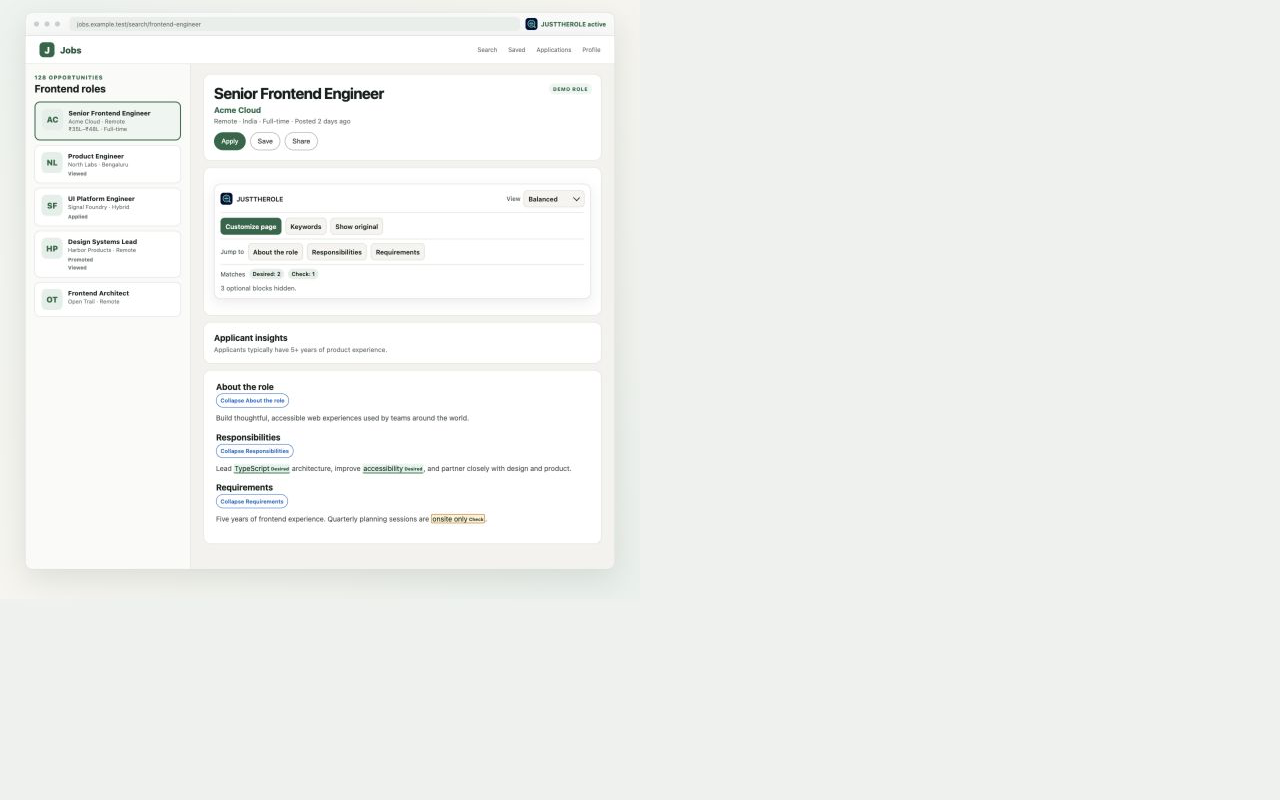
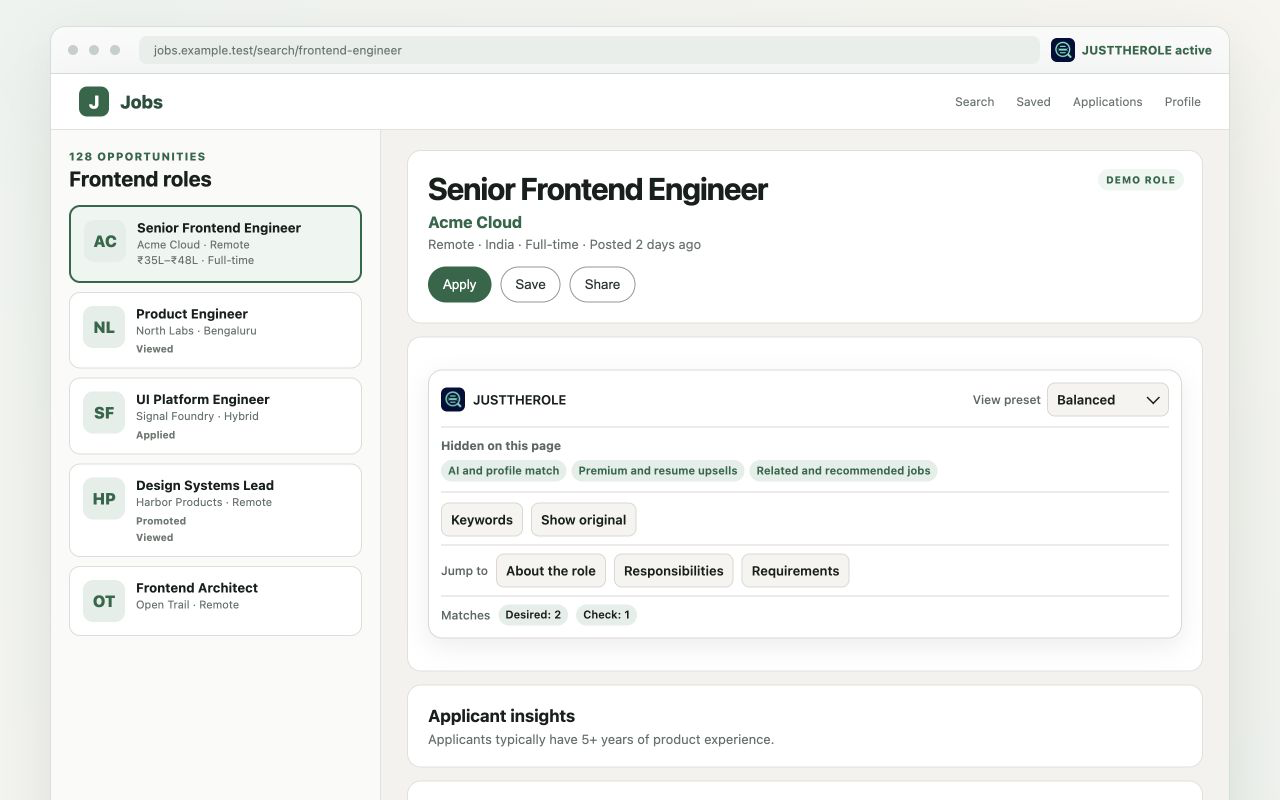
Update docs and assets to align with the new UI

diff --git a/src/content/index.ts b/src/content/index.ts
@@ -6,6 +6,7 @@ import {
   CATEGORY_KEYS,
   CATEGORY_LABELS,
   DEFAULT_SETTINGS,
+  EXPERIMENTAL_SEARCH_CLEANUP_AVAILABLE,
   SETTINGS_KEY,
   customizeModule,
   loadSettings,
@@ -253,6 +254,7 @@ function restoreSearchBeta(): void {
 }
 
 function applySearchBeta(): void {
+  if (!EXPERIMENTAL_SEARCH_CLEANUP_AVAILABLE) return;
   const searchList = firstMatch([
     ".jobs-search-results-list",
     "[data-view-name='jobs-search-results-list']",
@@ -467,7 +469,7 @@ function renderFocusBar(view: JobView | null): void {
       </div>
       ${nav ? `<nav class="nav" aria-label="Job description sections"><span class="label">Jump to</span>${nav}</nav>` : ""}
       ${countSummary ? `<div class="counts" aria-label="Keyword match counts"><span class="label">Matches</span>${countSummary}</div>` : ""}
-      ${(settings.searchBeta.collapseViewed && searchCounts.viewed) || (settings.searchBeta.collapseApplied && searchCounts.applied) ? `<div class="search"><span class="label">Search list</span>${settings.searchBeta.collapseViewed && searchCounts.viewed ? `<button type="button" data-action="show-viewed">${showViewed ? "Hide" : "Show"} viewed (${searchCounts.viewed})</button>` : ""}${settings.searchBeta.collapseApplied && searchCounts.applied ? `<button type="button" data-action="show-applied">${showApplied ? "Hide" : "Show"} applied (${searchCounts.applied})</button>` : ""}</div>` : ""}
+      ${EXPERIMENTAL_SEARCH_CLEANUP_AVAILABLE && ((settings.searchBeta.collapseViewed && searchCounts.viewed) || (settings.searchBeta.collapseApplied && searchCounts.applied)) ? `<div class="search"><span class="label">Search list</span>${settings.searchBeta.collapseViewed && searchCounts.viewed ? `<button type="button" data-action="show-viewed">${showViewed ? "Hide" : "Show"} viewed (${searchCounts.viewed})</button>` : ""}${settings.searchBeta.collapseApplied && searchCounts.applied ? `<button type="button" data-action="show-applied">${showApplied ? "Hide" : "Show"} applied (${searchCounts.applied})</button>` : ""}</div>` : ""}
       <p class="status" aria-live="polite">${temporaryOriginal ? "Original page shown for this job session." : normalStatus}</p>
     </section>
   `;

diff --git a/src/shared/settings.ts b/src/shared/settings.ts
@@ -1,6 +1,7 @@
 export const SETTINGS_KEY = "settingsV2" as const;
 export const LEGACY_SETTINGS_KEY = "settingsV1" as const;
 export const SETTINGS_SCHEMA_VERSION = 2 as const;
+export const EXPERIMENTAL_SEARCH_CLEANUP_AVAILABLE = false as const;
 
 export const CATEGORY_KEYS = [
   "aiMatch",
@@ -222,9 +223,15 @@ export function normalizeSettings(value: unknown): Settings {
       sectionControlsEnabled: bool(input.readingTools?.sectionControlsEnabled, true),
     },
     searchBeta: {
-      compactDensity: bool(input.searchBeta?.compactDensity, false),
-      collapseViewed: bool(input.searchBeta?.collapseViewed, false),
-      collapseApplied: bool(input.searchBeta?.collapseApplied, false),
+      compactDensity: EXPERIMENTAL_SEARCH_CLEANUP_AVAILABLE
+        ? bool(input.searchBeta?.compactDensity, false)
+        : false,
+      collapseViewed: EXPERIMENTAL_SEARCH_CLEANUP_AVAILABLE
+        ? bool(input.searchBeta?.collapseViewed, false)
+        : false,
+      collapseApplied: EXPERIMENTAL_SEARCH_CLEANUP_AVAILABLE
+        ? bool(input.searchBeta?.collapseApplied, false)
+        : false,
     },
     syncEnabled: bool(input.syncEnabled, false),
     uiPreferences: {

diff --git a/store-assets/job-showcase.html b/store-assets/job-showcase.html
@@ -64,12 +64,12 @@
     </style>
     <script>
       const query = new URLSearchParams(location.search);
-      const searchMode = query.get("view") === "search";
+      const customMode = query.get("view") === "custom";
       if (query.get("theme") === "dark") document.documentElement.dataset.previewTheme = "dark";
       const settings = {
         schemaVersion: 2,
         enabled: true,
-        activePreset: "balanced",
+        activePreset: customMode ? "custom" : "balanced",
         customBasePreset: "balanced",
         moduleRules: {
           aiMatch: true, applicantInsights: false, premiumUpsells: true,
@@ -84,7 +84,7 @@
           { id: "check-1", text: "onsite only", type: "dealbreaker", matchMode: "phrase", enabled: true }
         ],
         readingTools: { keywordsEnabled: true, sectionControlsEnabled: true },
-        searchBeta: { compactDensity: searchMode, collapseViewed: searchMode, collapseApplied: searchMode },
+        searchBeta: { compactDensity: false, collapseViewed: false, collapseApplied: false },
         syncEnabled: false,
         uiPreferences: { reducedMotion: "reduce", controlPlacement: "inline", focusBarVisible: true }
       };

diff --git a/src/privacy/privacy.html b/src/privacy/privacy.html
@@ -17,7 +17,7 @@
       <h1>JUSTTHEROLE privacy</h1>
       <p class="note"><strong>Short version:</strong> JUSTTHEROLE changes how supported job pages look and marks criteria you explicitly provide. It does not collect or transmit page content, account data, or browsing activity.</p>
       <h2>What is stored</h2>
-      <p>Your Focus Mode switch, preset, category choices, reading-tool preferences, search-beta choices, and keyword rules are stored locally by Chrome on your device. Keyword rules may reveal career preferences and should be treated as sensitive configuration.</p>
+      <p>Your Focus Mode switch, preset, category choices, reading-tool preferences, on-page widget preference, and keyword rules are stored locally by Chrome on your device. Keyword rules may reveal career preferences and should be treated as sensitive configuration.</p>
       <h2>Optional Chrome Sync</h2>
       <p>Sync is off by default. If you enable it, your complete extension configuration, including keyword rules, may be stored and synchronized through your Chrome account. If Sync is unavailable, JUSTTHEROLE keeps the local copy.</p>
       <h2>What is not collected</h2>

diff --git a/tests/settings.test.ts b/tests/settings.test.ts
@@ -30,6 +30,18 @@ test("new installs are disabled with Balanced selected", () => {
   assert.equal(settings.uiPreferences.focusBarVisible, true);
 });
 
+test("hidden experimental search settings are normalized off", () => {
+  const settings = normalizeSettings({
+    ...structuredClone(DEFAULT_SETTINGS),
+    searchBeta: { compactDensity: true, collapseViewed: true, collapseApplied: true },
+  });
+  assert.deepEqual(settings.searchBeta, {
+    compactDensity: false,
+    collapseViewed: false,
+    collapseApplied: false,
+  });
+});
+
 test("the on-page widget preference is normalized and can be hidden independently", () => {
   const settings = normalizeSettings({
     ...structuredClone(DEFAULT_SETTINGS),

diff --git a/src/options/index.ts b/src/options/index.ts
@@ -4,6 +4,7 @@ import {
   CATEGORY_KEYS,
   CATEGORY_LABELS,
   DEFAULT_SETTINGS,
+  EXPERIMENTAL_SEARCH_CLEANUP_AVAILABLE,
   SETTINGS_KEY,
   customizeModule,
   enableSettingsSync,
@@ -20,6 +21,7 @@ import {
 } from "../shared/settings";
 
 let settings: Settings;
+document.querySelector<HTMLElement>("#experimental-search-cleanup")!.hidden = !EXPERIMENTAL_SEARCH_CLEANUP_AVAILABLE;
 const feedback = document.querySelector<HTMLElement>("#feedback")!;
 const keywordError = document.querySelector<HTMLElement>("#keyword-error")!;
 const customSelects = new Map<string, SelectMenuController>();

diff --git a/tests/fixtures/job-page.html b/tests/fixtures/job-page.html
@@ -34,7 +34,7 @@
           { id: "check", text: "onsite only", type: "dealbreaker", matchMode: "phrase", enabled: true }
         ],
         readingTools: { keywordsEnabled: true, sectionControlsEnabled: true },
-        searchBeta: { compactDensity: true, collapseViewed: true, collapseApplied: true },
+        searchBeta: { compactDensity: false, collapseViewed: false, collapseApplied: false },
         syncEnabled: false,
         uiPreferences: { reducedMotion: "reduce", controlPlacement: "inline", focusBarVisible: true }
       };

diff --git a/src/options/options.html b/src/options/options.html
@@ -102,7 +102,7 @@
         </div>
       </section>
 
-      <details class="panel experimental">
+      <details id="experimental-search-cleanup" class="panel experimental" hidden>
         <summary>
           <span><span class="badge">EXPERIMENTAL · DEFAULT OFF</span><strong>Search-list cleanup</strong></span>
           <small>Optional controls for visibly labeled Viewed or Applied cards.</small>

diff --git a/docs/ARCHITECTURE.md b/docs/ARCHITECTURE.md
@@ -16,7 +16,6 @@ Chrome storage.sync (opt-in)┘            │
                                                 ├── restore prior mutations
                                                 ├── apply safe layout rules
                                                 ├── apply reading tools
-                                                ├── apply search cleanup
                                                 └── render Focus Bar
 ```
 
@@ -28,7 +27,7 @@ Chrome storage.sync (opt-in)┘            │
 - `src/shared/html.ts` escapes untrusted text before Shadow DOM HTML rendering.
 - `src/content/registry.ts` is the versioned selector map and protected-anchor safety boundary.
 - `src/content/keyword-dom.ts` adds and restores markers without replacing description HTML.
-- `src/content/search-beta.ts` classifies explicit card labels.
+- `src/content/search-beta.ts` retains dormant search-card classification logic for internal development. The shipping availability flag is false, so it has no user-facing runtime behavior.
 - `src/content/index.ts` coordinates detection, transformations, restoration, navigation changes, DOM updates, and the Focus Bar.
 - `src/popup/` provides compact quick controls, settings access, and a secondary privacy-safe diagnostics action.
 - `src/options/` provides complete configuration editing.
@@ -45,11 +44,11 @@ Each apply pass:
 1. records scroll position and removes every extension-owned mutation from the previous pass;
 2. detects a rendered job root, title, and description from the restored page;
 3. resets transient diagnostics;
-4. when Focus Mode is active and original view is not requested, applies layout rules, keyword markers, section controls, and search cleanup;
+4. when Focus Mode is active and original view is not requested, applies layout rules, keyword markers, and section controls;
 5. renders the Focus Bar whenever its independent visibility preference is enabled, including an Enable action when Focus Mode is off, or removes it when the preference is disabled;
 6. restores scroll position and clears observer records created by the pass.
 
-Relevant page mutations are debounced. Mutations inside extension UI or keyword markers are ignored to prevent feedback loops. Route changes clear session-only state such as Show original, Undo, collapsed sections, and revealed search cards.
+Relevant page mutations are debounced. Mutations inside extension UI or keyword markers are ignored to prevent feedback loops. Route changes clear session-only state such as Show original, Undo, and collapsed sections.
 
 ## Safe DOM transformation model
 
@@ -59,7 +58,7 @@ Layout hiding is CSS-driven through `data-jtr-hidden`. Before changing `aria-hid
 
 Keyword processing walks visible text nodes below description content. It skips interactive, executable, hidden, and extension-owned regions. Matches are inserted from the end of each text node so ranges remain stable. Restoration replaces marks with text nodes and normalizes their parents.
 
-Section and search transformations also use extension-owned data attributes. No employer-authored text or event handlers are rewritten.
+Section transformations also use extension-owned data attributes. No employer-authored text or event handlers are rewritten.
 
 ## Focus Bar isolation
 
@@ -85,6 +84,6 @@ Storage events update open job pages immediately. The background worker mirrors 
 
 ## Testing strategy
 
-Unit tests cover matching, schema, migration, selector safety, escaping, search labels, sections, and marker restoration. A sanitized fixture exercises the bundled content script against LinkedIn-like markup. The release command validates the built artifact.
+Unit tests cover matching, schema, migration, selector safety, escaping, sections, marker restoration, and dormant experimental helpers. A sanitized fixture exercises the bundled content script against LinkedIn-like markup. The release command validates the built artifact.
 
 The selector registry is the main external compatibility boundary. It requires manual signed-in validation before release because fixtures cannot observe future LinkedIn markup changes or account-specific experiments.

diff --git a/README.md b/README.md
@@ -1,6 +1,6 @@
 # JUSTTHEROLE
 
-JUSTTHEROLE is a privacy-first Chrome extension that turns supported LinkedIn Jobs pages into a calmer, personal reading view. It hides recognized page blocks selected by the user, marks words and phrases the user defines, adds navigation for reliably detected description sections, and can reduce clutter in a search-results list.
+JUSTTHEROLE is a privacy-first Chrome extension that turns supported LinkedIn Jobs pages into a calmer, personal reading view. It hides recognized page blocks selected by the user, marks words and phrases the user defines, and adds navigation for reliably detected description sections.
 
 The extension is deterministic and visual-only. It does not scrape jobs, summarize or score descriptions, automate LinkedIn actions, collect analytics, store job content, or make extension-initiated network requests.
 
@@ -24,11 +24,10 @@ Optional reading tools provide:
 - Local **Desired**, **Notice**, and **Check** keyword markers using whole-word or exact-phrase matching.
 - Match counts without interpretation, ranking, or scoring.
 - Jump links and session-only collapse controls when at least two unambiguous English section headings are recognized.
-- A default-off search-list cleanup that can use compact spacing and reversibly collapse explicitly labeled Viewed or Applied cards. Sponsored and promoted cards are never collapsed.
 
 ## Privacy and safety
 
-Only extension configuration is stored: the Focus Mode switch, selected view, module choices, keyword rules, reading-tool preferences, search-list preferences, and UI preferences such as on-page widget visibility. Chrome Sync is optional and off by default. When enabled, the same configuration—including potentially sensitive keyword rules—may be synchronized through the user's Chrome account; the local copy remains available if Sync fails.
+Only extension configuration is stored: the Focus Mode switch, selected view, module choices, keyword rules, reading-tool preferences, and UI preferences such as on-page widget visibility. Chrome Sync is optional and off by default. When enabled, the same configuration—including potentially sensitive keyword rules—may be synchronized through the user's Chrome account; the local copy remains available if Sync fails.
 
 JUSTTHEROLE does not store page text, job URLs, titles, companies, profile or account details, resumes, applications, search terms, browsing history, or derived scores. The manifest requests Chrome storage, narrowly scoped LinkedIn Jobs access, and user-initiated active-tab scripting so the packaged code can activate on an already-open job tab. The content script does not run on non-Jobs paths.
 
@@ -87,6 +86,6 @@ docs/          Product and engineering documentation
 
 ## Release validation
 
-`npm run verify` covers settings normalization and migration, presets, storage changes, untrusted-label escaping, selector safety, keyword validation/matching/restoration, a 25,000-character description pass, search-card classification, and conservative section recognition.
+`npm run verify` covers settings normalization and migration, presets, storage changes, untrusted-label escaping, selector safety, keyword validation/matching/restoration, a 25,000-character description pass, and conservative section recognition.
 
 Before publishing, also load the unpacked build and validate the selector map against current signed-in LinkedIn job-detail and search views. Automated fixtures cannot guarantee compatibility with markup LinkedIn changes after release.

diff --git a/docs/PRD.md b/docs/PRD.md
@@ -68,14 +68,6 @@ The primary user is an individual reviewing job opportunities on desktop Chrome.
 - **FR-24:** Ambiguous, duplicate, or unrecognized headings must fail open.
 - **FR-25:** Jump controls must target the original heading; collapse state must be reversible and session-only.
 
-### Search-list cleanup
-
-- **FR-26:** Search-list cleanup must be separately configurable, disabled by default, and contained in a closed Experimental disclosure on first render.
-- **FR-27:** Compact density may reduce spacing but must not remove facts or actions.
-- **FR-28:** Only cards with an explicit leading Viewed or Applied status label may be collapsed.
-- **FR-29:** Cards containing a visible Sponsored or Promoted label must never be collapsed.
-- **FR-30:** The Focus Bar must provide reversible counters for collapsed Viewed and Applied cards.
-
 ### Settings, Sync, and privacy
 
 - **FR-31:** Persisted data must be normalized through an allowlisted schema before use or storage.
@@ -108,7 +100,7 @@ The primary user is an individual reviewing job opportunities on desktop Chrome.
 A release candidate is acceptable when:
 
 - strict TypeScript checks, automated tests, and the production build pass;
-- the sanitized fixture verifies hiding, highlighting, section controls, search cleanup, direct Custom controls, and complete restoration;
+- the sanitized fixture verifies hiding, highlighting, section controls, direct Custom controls, and complete restoration;
 - the store package contains one root manifest and no development-only files;
 - manual signed-in checks cover direct job pages and split search/detail views on current LinkedIn markup;
 - Apply, Save, Share, Report, title, and company/location context remain usable in every view; About the job remains visible in every built-in preset and is restored after its explicit Custom hiding choice is reversed;
@@ -124,3 +116,5 @@ This repository intentionally includes no telemetry. Success should be assessed 
 ## Known product boundary
 
 Automated tests use a sanitized LinkedIn-like fixture. Because LinkedIn markup is external and changes over time, live signed-in selector validation remains a release requirement rather than a capability the repository can guarantee permanently.
+
+Search-list cleanup is outside the current product scope. Its dormant implementation remains in the repository for internal development but is unavailable in shipping UI and runtime behavior.

diff --git a/docs/SETTINGS_SCHEMA.md b/docs/SETTINGS_SCHEMA.md
@@ -75,7 +75,7 @@ The versioned key and number describe storage compatibility only. They are not p
 | `customModuleRules` | category-to-boolean map | Saved Custom configuration, recalled independently of the previously active built-in preset. Missing legacy values default to Balanced unless the stored active view is already Custom, in which case its effective rules are preserved. |
 | `keywordRules` | up to 50 `KeywordRule` objects | User-defined local matching configuration. |
 | `readingTools` | booleans | Enables keyword markers and reliable-section controls independently. |
-| `searchBeta` | booleans | Default-off search-list density and collapse controls. |
+| `searchBeta` | booleans | Dormant compatibility fields retained for internal development. Shipping normalization forces every value to `false`; no user-facing control or runtime behavior is available. |
 | `syncEnabled` | boolean | Opt-in configuration synchronization. |
 | `uiPreferences.reducedMotion` | `system`, `reduce` | Uses system behavior or forces non-smooth in-page navigation. |
 | `uiPreferences.controlPlacement` | `inline` | Reserved, allowlisted Focus Bar placement. |
@@ -118,7 +118,7 @@ The versioned key and number describe storage compatibility only. They are not p
 | Top navigation | false | false | false |
 | Search results pane | false | false | false |
 
-The last two categories remain in the schema for compatibility but are not offered as manual hiding controls. Search-list cleanup uses separately gated settings.
+The last two categories remain in the schema for compatibility but are not offered as manual hiding controls.
 
 ## Normalization boundary
 
@@ -128,6 +128,7 @@ Every load and save passes through `normalizeSettings`. It:
 - allowlists every returned field and nested value;
 - applies boolean and enum defaults;
 - reconstructs the complete category map;
+- forces dormant experimental search flags to `false`;
 - caps keyword rules at 50 and text at 60 characters;
 - discards empty rules and unknown top-level data.
 
